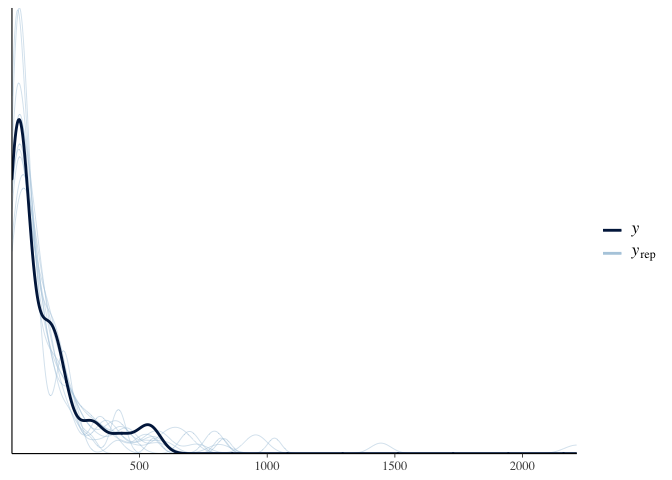
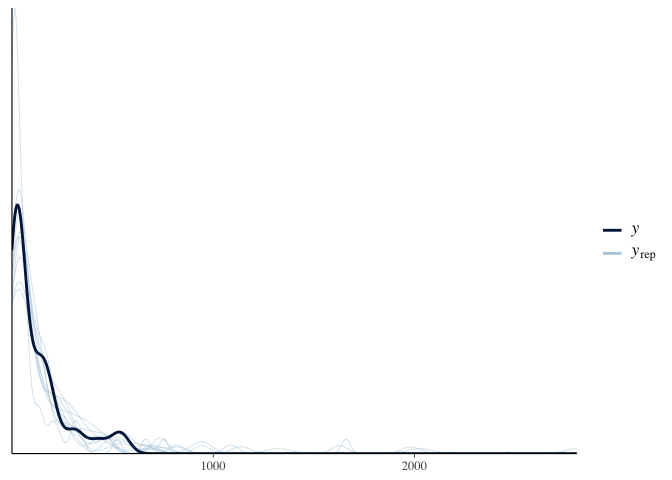
km-bayes

diff --git a/R/Survival.md b/R/Survival.md
@@ -1,7 +1,7 @@
 Survival Models
 ================
 Jesse Cambon
-03 February, 2021
+04 February, 2021
 
 -   [Kaplan-Meier](#kaplan-meier)
 -   [Log-Rank Test](#log-rank-test)
@@ -233,7 +233,7 @@ library(brms)
 library(bayesplot)
 ```
 
-    ## This is bayesplot version 1.7.2
+    ## This is bayesplot version 1.8.0
 
     ## - Online documentation and vignettes at mc-stan.org/bayesplot
 
@@ -242,6 +242,10 @@ library(bayesplot)
     ##    * Does _not_ affect other ggplot2 plots
 
     ##    * See ?bayesplot_theme_set for details on theme setting
+
+``` r
+options(mc.cores = parallel::detectCores())
+```
 
 -   <http://paul-buerkner.github.io/brms/reference/kidney.html>
 -   <https://mc-stan.org/rstanarm/reference/adapt_delta.html>
@@ -267,23 +271,50 @@ summary(fit2)
     ## Group-Level Effects: 
     ## ~patient (Number of levels: 38) 
     ##               Estimate Est.Error l-95% CI u-95% CI Rhat Bulk_ESS Tail_ESS
-    ## sd(Intercept)     0.53      0.24     0.05     0.97 1.00      722      675
+    ## sd(Intercept)     0.53      0.23     0.08     0.98 1.00      837     1549
     ## 
     ## Population-Level Effects: 
     ##            Estimate Est.Error l-95% CI u-95% CI Rhat Bulk_ESS Tail_ESS
-    ## Intercept      3.66      0.41     2.88     4.50 1.00     2833     2788
-    ## sexfemale      1.61      0.38     0.87     2.35 1.00     2956     2919
-    ## diseaseGN     -0.15      0.44    -1.00     0.73 1.00     2587     2425
-    ## diseaseAN     -0.58      0.39    -1.36     0.20 1.00     2593     2207
-    ## diseasePKD     0.94      0.68    -0.39     2.27 1.00     2388     3112
+    ## Intercept      3.65      0.40     2.87     4.50 1.00     2298     3062
+    ## sexfemale      1.61      0.38     0.85     2.34 1.00     2891     3163
+    ## diseaseGN     -0.14      0.44    -1.00     0.72 1.00     2436     2704
+    ## diseaseAN     -0.57      0.39    -1.36     0.21 1.00     2524     2627
+    ## diseasePKD     0.95      0.66    -0.38     2.24 1.00     2192     2601
     ## 
     ## Family Specific Parameters: 
     ##       Estimate Est.Error l-95% CI u-95% CI Rhat Bulk_ESS Tail_ESS
-    ## shape     1.12      0.16     0.85     1.48 1.00     1338     2461
+    ## shape     1.13      0.15     0.86     1.45 1.00     1305     2427
     ## 
     ## Samples were drawn using sampling(NUTS). For each parameter, Bulk_ESS
     ## and Tail_ESS are effective sample size measures, and Rhat is the potential
     ## scale reduction factor on split chains (at convergence, Rhat = 1).
+
+``` r
+prior_summary(fit2)
+```
+
+    ##                   prior     class       coef   group resp dpar nlpar bound
+    ##                  (flat)         b                                         
+    ##                  (flat)         b  diseaseAN                              
+    ##                  (flat)         b  diseaseGN                              
+    ##                  (flat)         b diseasePKD                              
+    ##                  (flat)         b  sexfemale                              
+    ##  student_t(3, 3.7, 2.5) Intercept                                         
+    ##    student_t(3, 0, 2.5)        sd                                         
+    ##    student_t(3, 0, 2.5)        sd            patient                      
+    ##    student_t(3, 0, 2.5)        sd  Intercept patient                      
+    ##       gamma(0.01, 0.01)     shape                                         
+    ##        source
+    ##       default
+    ##  (vectorized)
+    ##  (vectorized)
+    ##  (vectorized)
+    ##  (vectorized)
+    ##       default
+    ##       default
+    ##  (vectorized)
+    ##  (vectorized)
+    ##       default
 
 ``` r
 pp_check(fit2)
@@ -310,3 +341,15 @@ mcmc_areas(fit2,  regex_pars = c('b_*', 'r_*'))
 ```
 
 ![](../rmd_images/Survival/unnamed-chunk-17-1.png)<!-- -->
+
+<https://mc-stan.org/bayesplot/reference/PPC-censoring.html>
+
+``` r
+yrep <- posterior_predict(fit2)
+```
+
+``` r
+ppc_km_overlay(kidney$time, yrep, status_y = kidney$censored)
+```
+
+![](../rmd_images/Survival/unnamed-chunk-19-1.png)<!-- -->
